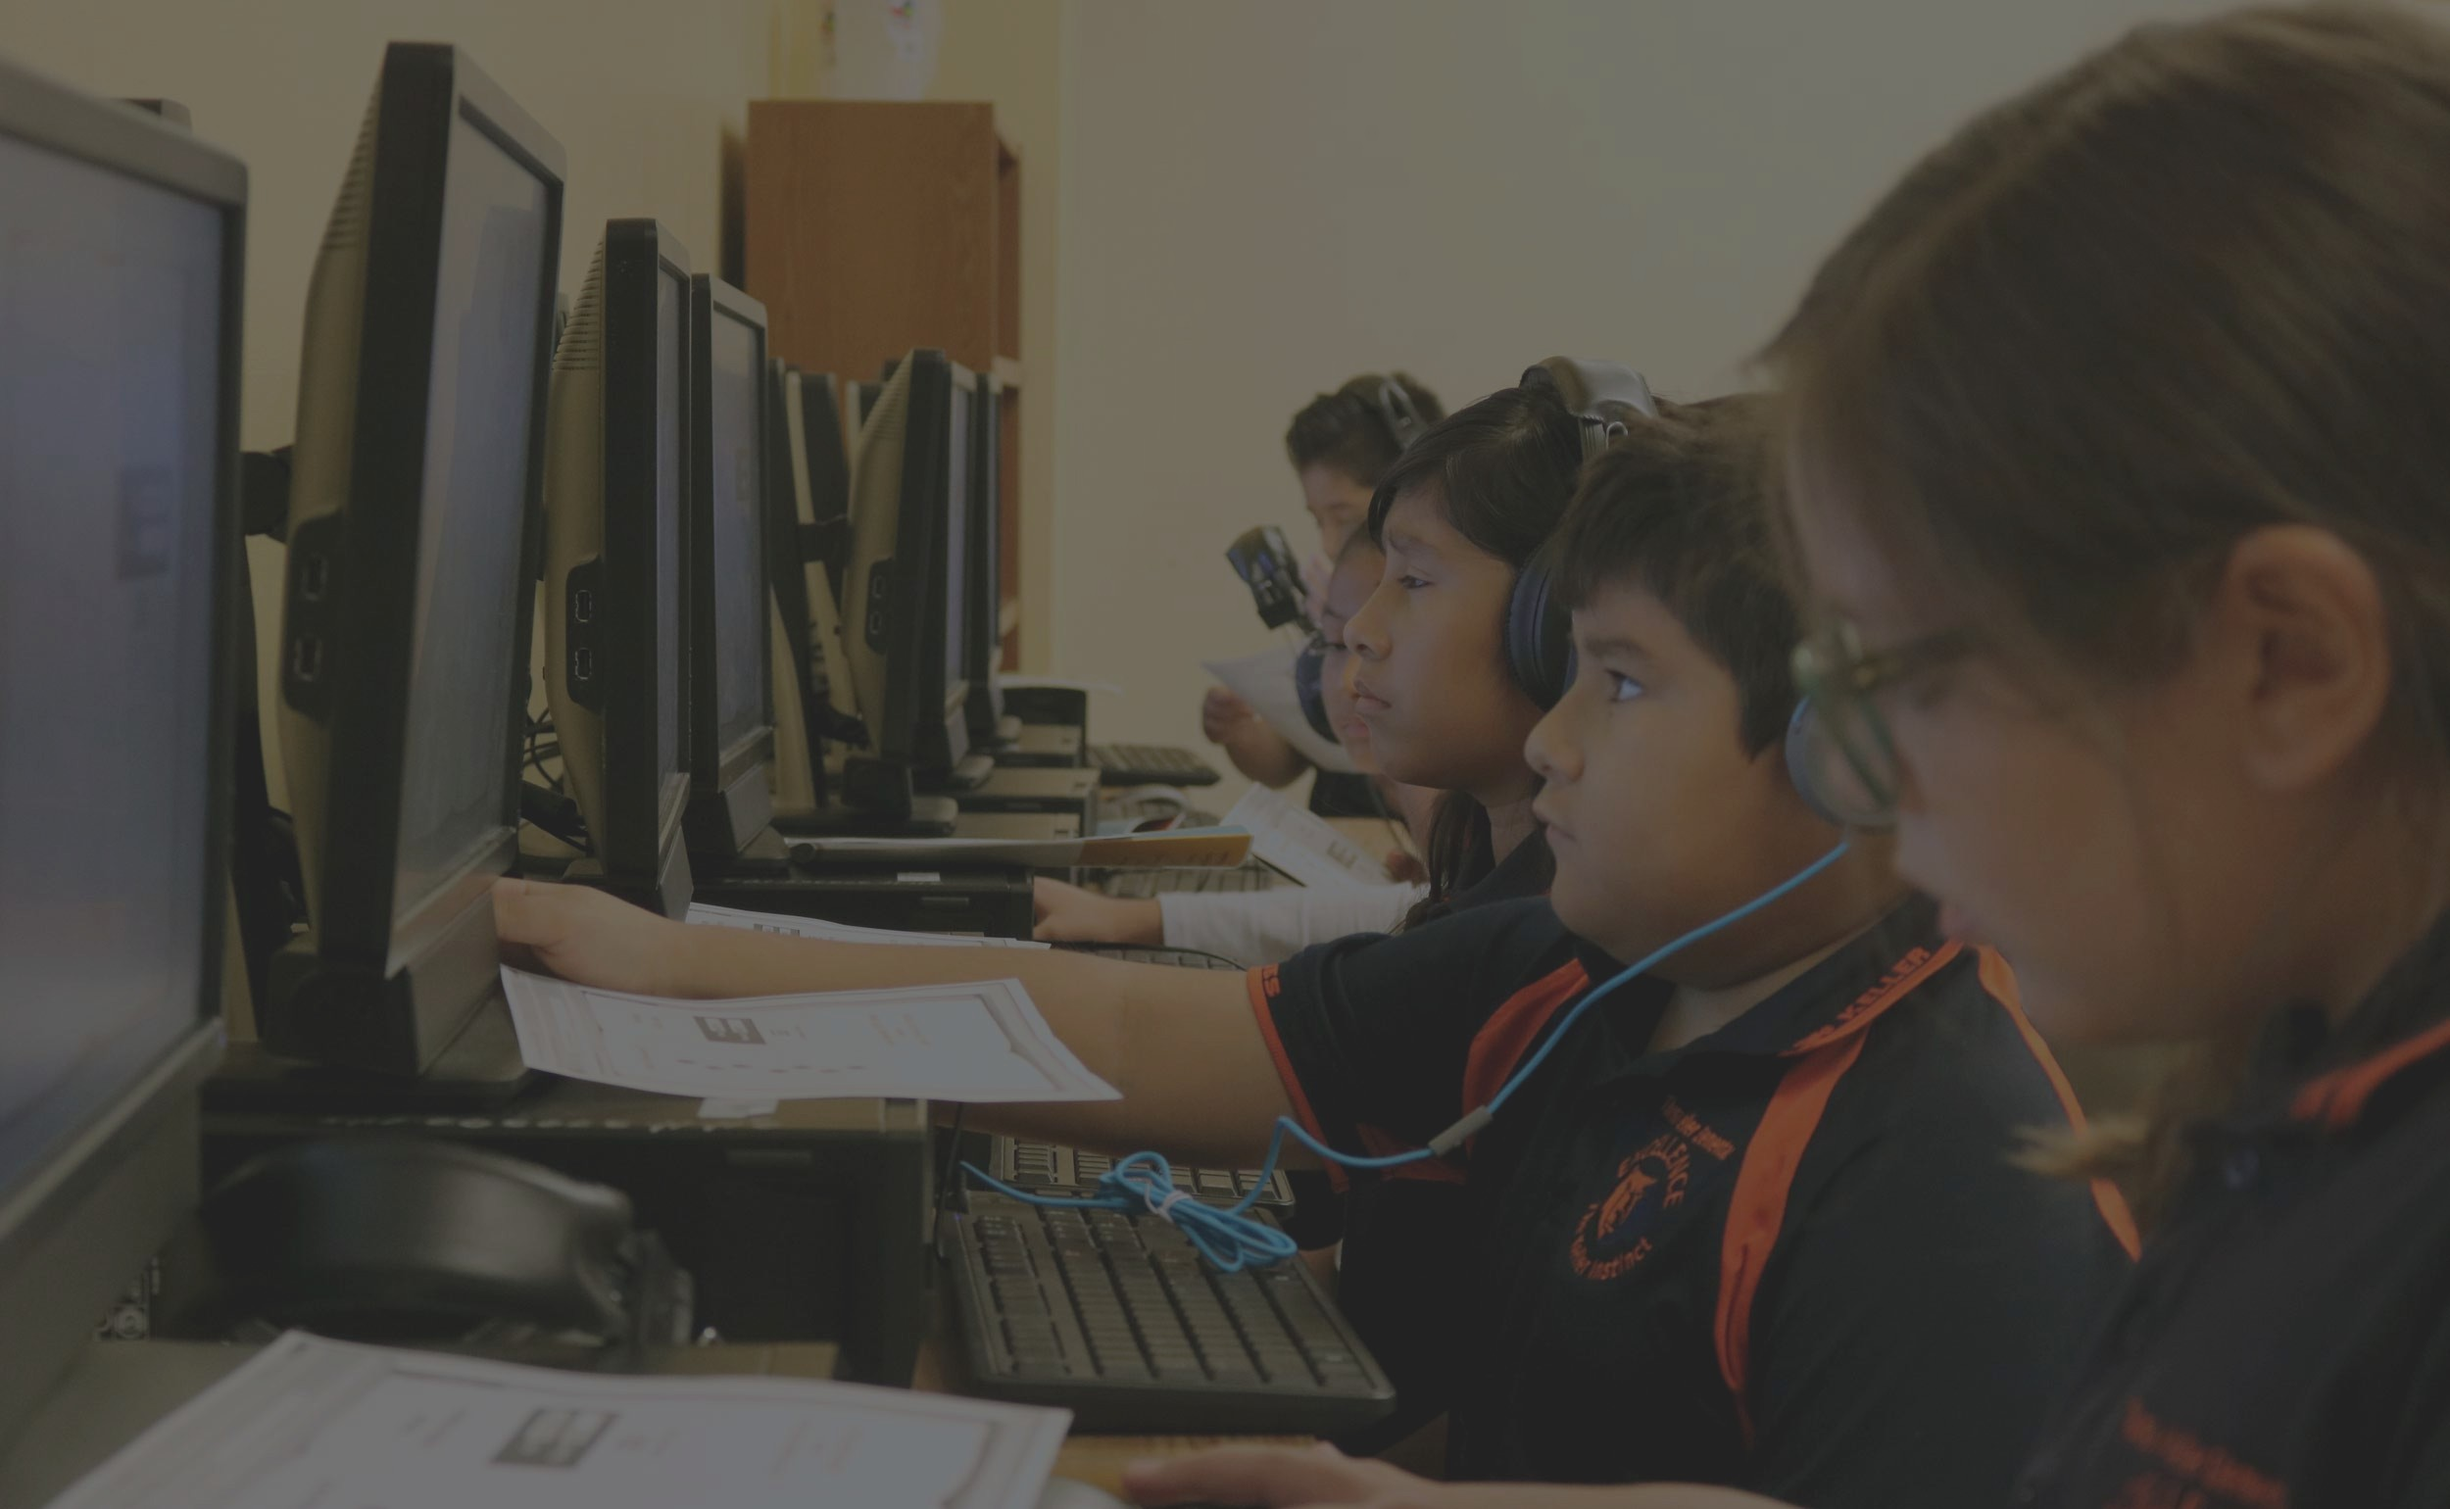
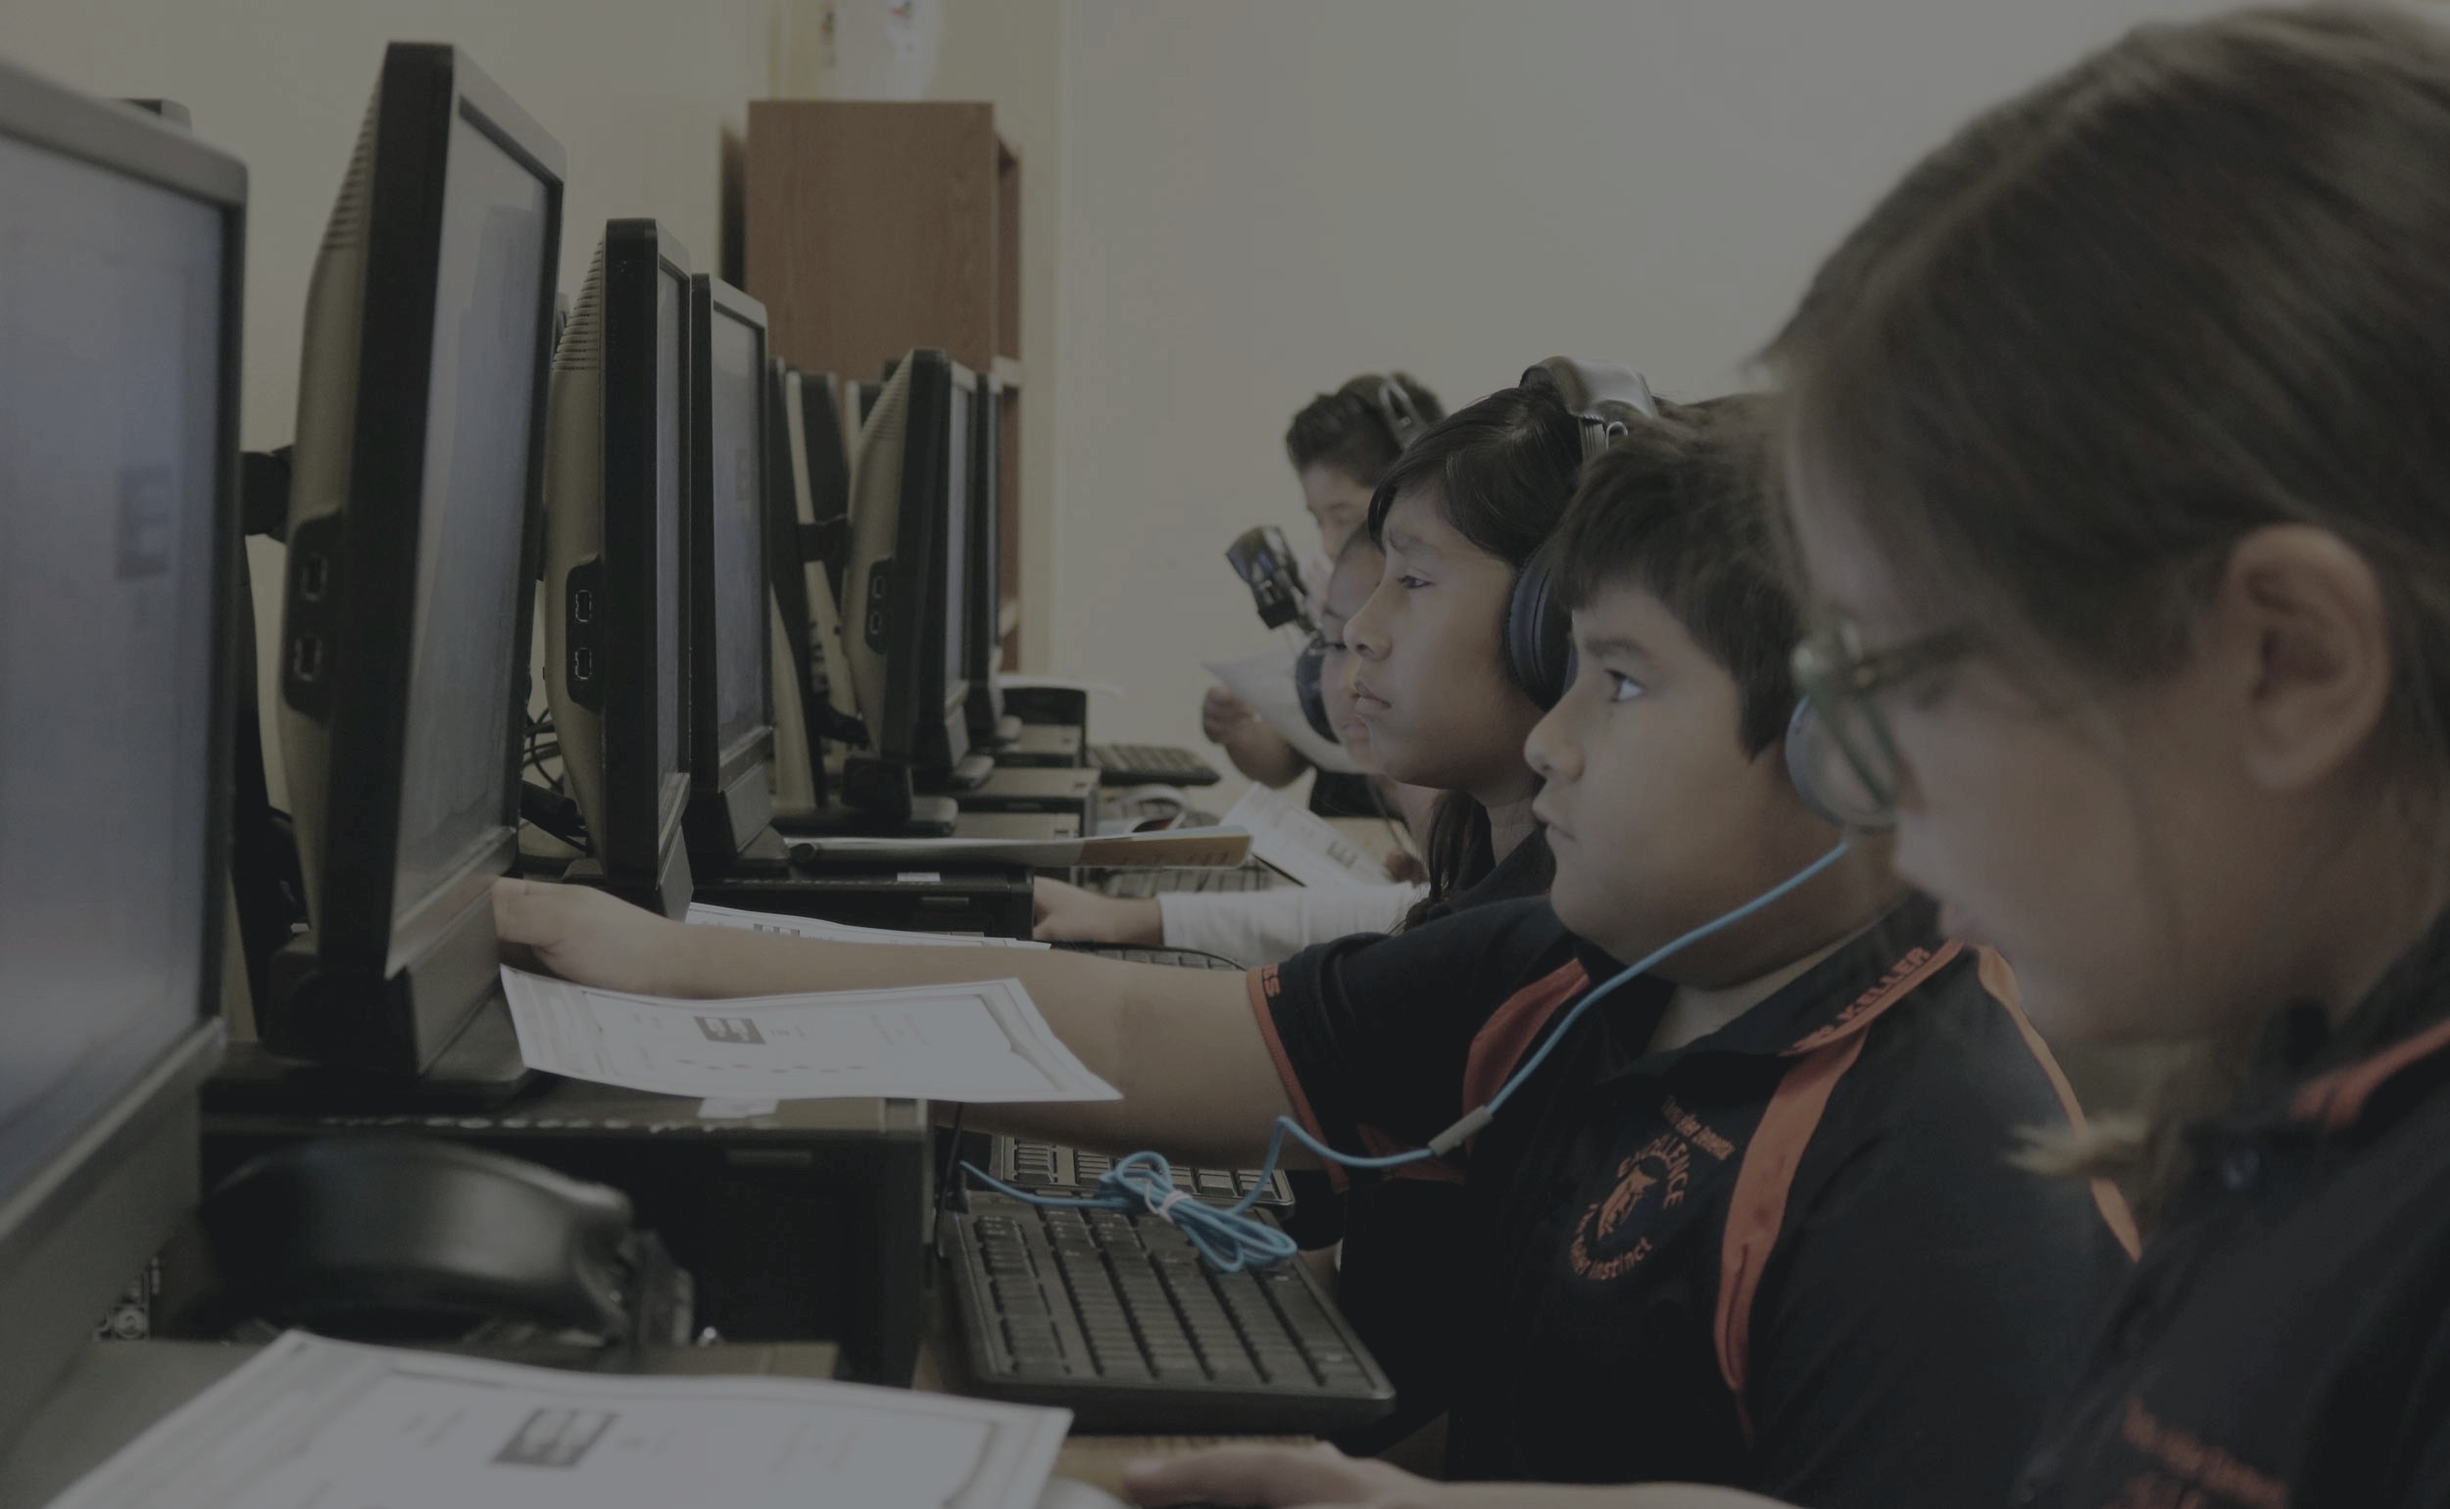
make the whole website responsive

diff --git a/primary_files/OSDA/index.html b/primary_files/OSDA/index.html
@@ -1,5 +1,6 @@
 <!DOCTYPE html>
 <html lang="en">
+
 <head>
     <meta charset="UTF-8">
     <meta http-equiv="X-UA-Compatible" content="IE=edge">
@@ -8,12 +9,19 @@
     <link rel="stylesheet" href="style.css">
     <script src="script.js"></script>
 </head>
+
 <body>
-    
+
     <section class="topSection" id="home">
-        <div class="title">Let's Leverage Skills</div>
-        <div class="body">Lorem ipsum dolor sit amet, consectetur adipisicing elit. Pariatur ut natus neque velit nihil, modi libero dolore nesciunt quod iusto recusandae aliquam. Eum perspiciatis delectus, quam necessitatibus esse voluptate est!
-        Eius minus possimus minima repellendus numquam excepturi dolorem, veniam magni laboriosam dolore fuga impedit perferendis quasi deleniti aut alias illum. Nulla cum temporibus facere dignissimos deleniti dolor enim provident velit.</div>
+        <div class="main">
+            <div class="title">Let's <span>Leverage</span> Skills</div>
+            <div class="body">Lorem ipsum dolor sit amet, consectetur adipisicing elit. Pariatur ut natus neque velit
+                nihil, modi libero dolore nesciunt quod iusto recusandae aliquam. Eum perspiciatis delectus, quam
+                necessitatibus esse voluptate est!
+                Eius minus possimus minima repellendus numquam excepturi dolorem, veniam magni laboriosam dolore fuga
+                impedit perferendis quasi deleniti aut alias illum. Nulla cum temporibus facere dignissimos deleniti
+                dolor enim provident velit.</div>
+        </div>
     </section>
     <nav>
         <div class="brandTitle">OSDA</div>
@@ -23,14 +31,20 @@
             <li><a href="#gallery">Gallery</a></li>
             <li><a href="#aboutCompetition">About Competition</a></li>
             <li><a href="#register">Register</a></li>
-        </ul>    
+        </ul>
     </nav>
     <section id="aboutCompetition" class="aboutSection">
-        <div class="imageContainer"></div>
-        <div class="title">About Competition</div>
-        <div class="body">Lorem ipsum dolor sit amet, consectetur adipisicing elit. Quia, quod distinctio. Earum cum delectus beatae fugiat, quibusdam voluptatibus similique quasi aperiam nobis corrupti, sapiente aspernatur ab totam qui soluta nam.
-        Neque in magni iure quasi nihil, delectus alias adipisci, rerum cum molestiae dolorem, laboriosam aliquam deserunt quos consequuntur dolorum assumenda a dicta sapiente sed distinctio officia? Corrupti vitae veniam numquam.
-        Molestias aspernatur molestiae veniam. Omnis possimus corporis non dicta, modi voluptatibus perspiciatis doloribus velit, amet, totam quidem voluptatem asperiores veritatis molestiae placeat officia. Sapiente, explicabo voluptates unde nostrum tenetur id?</div>
+        <div class="imageContainer anim" data-delay="0s"></div>
+        <div class="title anim" data-delay="0.3s">About Competition</div>
+        <div class="body anim" data-delay="0.6s">Lorem ipsum dolor sit amet, consectetur adipisicing elit. Quia, quod
+            distinctio. Earum cum delectus beatae fugiat, quibusdam voluptatibus similique quasi aperiam nobis corrupti,
+            sapiente aspernatur ab totam qui soluta nam.
+            Neque in magni iure quasi nihil, delectus alias adipisci, rerum cum molestiae dolorem, laboriosam aliquam
+            deserunt quos consequuntur dolorum assumenda a dicta sapiente sed distinctio officia? Corrupti vitae veniam
+            numquam.
+            Molestias aspernatur molestiae veniam. Omnis possimus corporis non dicta, modi voluptatibus perspiciatis
+            doloribus velit, amet, totam quidem voluptatem asperiores veritatis molestiae placeat officia. Sapiente,
+            explicabo voluptates unde nostrum tenetur id?</div>
     </section>
     <section class="gallery" id="gallery">
         <div class="title">Gallery</div>
@@ -42,8 +56,10 @@
             <div class="caraouselImg"><img src="assets/galleryImage5.jpg" alt="boy cooking"></div>
             <div class="caraouselImg"><img src="assets/galleryImage6.jpg" alt="boy cooking"></div>
 
-            <div class="left arrow"><img src="assets/chevron_left_black_36dp.svg" alt="left arrow" onclick="carScroll('left');"></div>
-            <div class="right arrow"><img src="assets/chevron_right_black_36dp.svg" alt="right arrow" onclick="carScroll('right');"></div>
+            <div class="left arrow"><img src="assets/chevron_left_black_36dp.svg" alt="left arrow"
+                    onclick="carScroll('left');"></div>
+            <div class="right arrow"><img src="assets/chevron_right_black_36dp.svg" alt="right arrow"
+                    onclick="carScroll('right');"></div>
         </div>
     </section>
     <section class="register" id="register">
@@ -68,7 +84,8 @@
         </div>
     </section>
     <section class="footer">
-        Copyright  Odisha Skills Development Authority. All rights reserved.
+        Copyright Odisha Skills Development Authority. All rights reserved.
     </section>
 </body>
+
 </html>

diff --git a/primary_files/OSDA/style.css b/primary_files/OSDA/style.css
@@ -90,7 +90,7 @@ li:hover {
 
 .topSection {
     height: 100vh;
-    background-image: url("assets/kids-in-computer-lab2.jpg");
+    background-image: url("assets/kids-in-computer-lab.jpg");
     background-size: cover;
 
     display: flex;
@@ -100,19 +100,31 @@ li:hover {
     padding: 0 25vw 0 25vw;
 }
 
-.topSection > .title {
-    font-family: 'Roboto Slab', sans-serif;
-    color: white;
-    font-size: 4rem;
+.main {
+    box-shadow: 0px 5px 10px rgba(0, 0, 0, 0.75);
+    border-radius: 20px;
 }
 
-.topSection > .body {
-    margin-top: 2vh;
+.main > .title {
+    width: 100%;
+    text-align: center;
+    line-height: 20vh;
+    font-family: 'Roboto Slab', sans-serif;
+    font-size: 4rem;
+    background-color: var(--lightBlue);
+    color: var(--veryDarkBlue);
+    padding-left: 1vw;
+    padding-right: 1vw;
+    border-radius: 20px 20px 0px 0px;
+}
+
+.main > .body {
     padding: 3vh 2vw 3vh 2vw;
-    border-radius: 20px;
-    color: var(--apnaBlack);
-    font-size: 1.2rem;
-    background-color: rgba(255, 255, 255, 0.9);
+    /* border-radius: 20px; */
+    color: var(--veryDarkBlue);
+    font-size: 1.3rem;
+    background-color: rgba(255, 255, 255, 1);
+    border-radius: 0px 0px 20px 20px;
 }
 
 .aboutSection {
@@ -141,6 +153,7 @@ li:hover {
 }
 
 .aboutSection > .title {
+    box-shadow: 0px 5px 10px rgba(0, 0, 0, 0.75);
     margin-right: 0vw;
     grid-column: 2 / 4;
     grid-row: 2 / 3;
@@ -226,7 +239,7 @@ li:hover {
 .register {
     height: 100vh;
     background: linear-gradient(180deg, #FFFFFF 50%, #9E9E9E 50%);
-    padding-top: 5vh;
+    padding-top: 8vh;
 
     display: flex;
     flex-direction: column;
@@ -336,6 +349,21 @@ margin: 0;
     padding: 2vh 0px 2vh 0px;
 }
 
+.anim {
+    opacity: 0;
+}
+
+@keyframes anim1{
+    from {
+        transform: translateY(-100px);
+        opacity: 0;
+    }
+    to {
+        transform: translateY(0px);
+        opacity: 1;
+    }
+}
+
 @media only screen and (max-width: 768px) {
     nav {
         padding: 1vh 5vw 1vh 5vw;
@@ -364,4 +392,92 @@ margin: 0;
         padding: 2vh 0 2vh 0;
     }
 
+    .topSection{
+        padding-left: 6vw;
+        padding-right: 6vw;
+        height: 90vh;
+        background-size: cover;
+        background-position: center;
+    }
+    .main > .title {
+        font-size: 2rem;
+        line-height: normal;
+        padding: 1vh 1vw 1vh 1vw;
+    }
+
+    .main > .body {
+        font-size: 1rem;
+    }
+
+    .aboutSection {
+        height: auto;
+        padding: 8vh 6vw 8vh 6vw;
+        display: flex;
+        flex-direction: column;
+        align-items: center;
+        justify-content: center;
+    }
+    .aboutSection > .imageContainer {
+        order: 1;
+        width: 60%;
+        background-size: 185%;
+        height: 40vh;
+    }
+    .aboutSection > .title {
+        display: block;
+        text-align: center;
+        order: 0;
+        padding: 2vh 0 2vh 0;
+        font-size: 2rem;
+        border-radius: 20px;
+        height: max-content;
+        font-weight: bold;
+    }
+    .aboutSection > .body {
+        margin-top: 4vh;
+        padding: 0px;
+        order: 2;
+        font-size: 1rem;
+    }
+
+    .gallery {
+        padding-top: 6vh;
+        padding-bottom: 6vh;
+        height: max-content;
+    }
+    .gallery > .title {
+        font-size: 2rem;
+    }
+    .carousel{
+        margin-top: 4vh;
+    }
+    .carousel > .caraouselImg > img{
+        width: 48vw;
+        height: 30vh;
+    }
+    .arrow > img{
+        width: 10vw;
+    }
+
+    .register > .title{
+        font-size: 2rem;
+    }
+    .register > .form{
+        margin: 0px;
+        padding: 3vh 6vw 5vh 6vw;
+    }
+    .form > div input:not(.submitButton){
+        width: 100%;
+    }
+    .form div select{
+        width: 100%;
+    }
+    .submitButton{
+        padding: 1vh 4vw 1vh 4vw;
+        align-self: center;
+    }
+
+    .footer{
+        margin-top: 1vh;
+    }
 }

diff --git a/primary_files/OSDA/script.js b/primary_files/OSDA/script.js
@@ -1,12 +1,20 @@
+var carousel, currentScrollpos;
+
+
+// script when DOM has loaded succesfully
+document.addEventListener('DOMContentLoaded', () => {
+    carousel = document.querySelector(".carousel");
+    aboutAnimation();
+    carAnimation();
+});
+
 // When the user scrolls down, hide the navbar. When the user scrolls up, show the navbar
 var prevScrollpos = window.pageYOffset;
-var currentScrollpos;
-window.onscroll = function() {
-    console.log("you scrolled");
+window.onscroll = function () {
     currentScrollpos = window.pageYOffset;
-    if(prevScrollpos > currentScrollpos){
+    if (prevScrollpos > currentScrollpos) {
         document.querySelector("nav").style.top = "0";
-    }else{
+    } else {
         document.querySelector("nav").style.top = "-100px";
     }
     prevScrollpos = currentScrollpos;
@@ -14,23 +22,65 @@ window.onscroll = function() {
 
 
 // script for responsive navbar functioning
-function toggleMenu(){
+function toggleMenu() {
     const navbarLinks = document.querySelector("ul");
     navbarLinks.classList.toggle('active');
 }
 
 //script for caraousel functioning
 var scrolled = 0;
-
-function carScroll(direction){
-    var carousel = document.querySelector(".carousel");
-    var scrollAmount = window.outerWidth/4;
-    if(direction == "right"){
-        carousel.scroll(scrolled + scrollAmount, 0);
-        scrolled = scrollAmount + scrollAmount;
-        console.log(scrolled);
-    }else{
-        carousel.scroll(scrolled - scrollAmount, 0);
-        scrolled = scrollAmount - scrollAmount, 0;
+var scrollAmount = 0;
+function carScroll(direction) {
+    if (window.outerWidth <= 768) {
+        scrollAmount = window.outerWidth / 2;
+    } else {
+        scrollAmount = window.outerWidth / 4;
     }
+    if (direction == "right") {
+        if (!(scrolled >= scrollAmount * 4)) {
+            carousel.scroll(scrolled + scrollAmount, 0);
+            scrolled = scrolled + scrollAmount;
+        }
+    } else {
+        if (!(scrolled <= 0)) {
+            carousel.scroll(scrolled - scrollAmount, 0);
+            scrolled = scrolled - scrollAmount, 0;
+        }
+    }
+    console.log(scrolled);
+}
+
+
+
+function aboutAnimation() {
+    const myElements = document.querySelectorAll('.anim');
+
+    observer = new IntersectionObserver((entries) => {
+        entries.forEach(entry => {
+            if (entry.intersectionRatio > 0) {
+                entry.target.style.animation = 'anim1 2s forwards ease-out';
+                var animDelay = entry.target.dataset.delay;
+                entry.target.style.animationDelay = animDelay;
+            } else {
+                entry.target.style.animation = 'none';
+            }
+        })
+    });
+
+    myElements.forEach(myElement => {
+        observer.observe(myElement);
+    });
+}
+
+function carAnimation() {
+    observer = new IntersectionObserver((entries) => {
+        entries.forEach(entry => {
+            if (entry.intersectionRatio > 0) {
+                console.log("i am fired");
+                setTimeout(carScroll("right"), 500);
+            }
+        })
+    });
+
+    observer.observe(carousel);
 }
